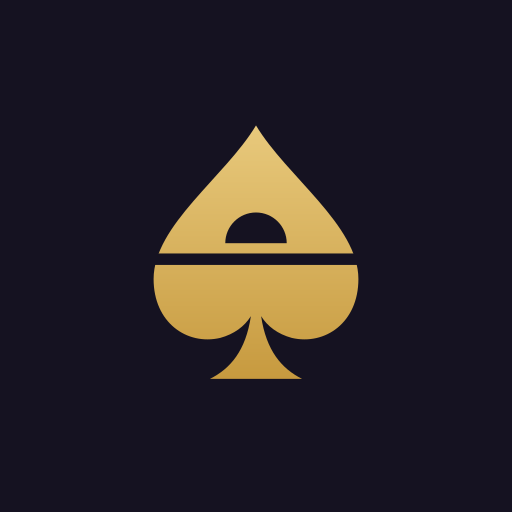
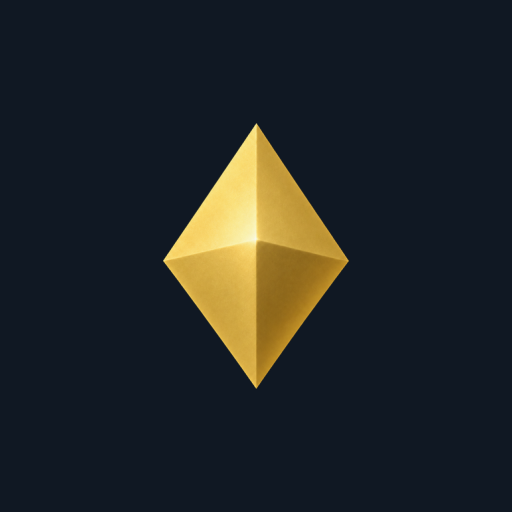
feat(brand): 앱 아이콘을 다이아로 · Play 자료(광고 아니요·조직 계정) 정리 · 다이아만 보일 때 로고 빛 체류 ≈470ms
- 아이콘: 앱 안 헤더와 같은 골드 다이아(오너 C안 원본을 알파로 잘라 높이 400 무손실 사본 scripts/brand/) + 테마 바탕 #101823.
  gen-favicons.mjs 가 favicon 32/48/64·apple-touch 180·PWA any 192/512·maskable 512(지름 80% 안전 영역 안)·monochrome 512(흰 실루엣, RGBA)·
  playstore/app-icon-512.png(정사각 풀블리드) 를 만든다. OG(nuri-logo.png)는 범위 밖이라 바이트 그대로(해시 동일 확인).
- sw.js 캐시 v2→v3: 아이콘·파비콘은 같은 주소 + 캐시 우선이라 올리지 않으면 재방문자에게 옛 스페이드가 남는다.
- 피처 그래픽: 브랜드 마크·카드 무늬를 다이아로(playstore-feature.mjs).
- 문서: 광고 포함 '아니요'(유료 노출 끔 — ads 항목 PR 배포 뒤 제출) · 조직 계정(D-U-N-S) 경로만 · 업로드 키는 저장소 밖에서.
- LogoGlint: 다이아만 보일 때(라이트 · <373) 같은 850ms 동안 −18→22 등속 — 빛이 다이아 위에 ≈470ms(전 100ms, review-239b P3-a). 수명 불변.
  e2e 3건 추가(SMIL 시계 멈춤·되감기 표본). 음성 대조: 분기 끄면 360·라이트 100ms 로 FAIL, 판정이 늘 참이면 390 다크 끝점 22 로 FAIL.

Changed region(s): [[0.2812, 0.25, 0.7188, 0.75]]

diff --git a/e2e/logo-glint.spec.ts b/e2e/logo-glint.spec.ts
@@ -113,6 +113,47 @@ test.describe('헤더 로고 글린트', () => {
     });
   }
 
+  // 다이아만 보일 때(라이트 · <373) 빛이 다이아 위에 머무는 시간 — 글자까지 가는 범위·곡선 그대로면 82~101ms 라 '반짝' 으로 읽혔다(review-239b P3-a).
+  // 재생이 시작되면 SMIL 시계를 멈추고 시작점부터 10ms 씩 되감아 띠 위치를 읽는다(타이머·프레임 속도와 무관하게 결정적).
+  // 밝은 띠가 다이아(x 9.18~29.18) 위에 있는 구간은 이동량 −10~12 다(띠 기울기·정지점에서 계산한 평균 흰빛 기준 — 검토 실측 82~101ms 를 같은 기준으로 재현한 값).
+  // 음성 대조(2026-10-09): LogoGlint 의 '다이아만' 분기를 지우면 360·라이트가 ≈100ms 로 실패, 분기 조건을 항상 참으로 바꾸면 390 다크의 끝점 94 가 실패.
+  const shine = (page: Page) => page.evaluate(() => new Promise<{ ms: number; end: number }>((resolve) => {
+    const tick = () => {
+      const svg = [...document.querySelectorAll<SVGSVGElement>('[data-testid="logo-glint"]')].pop();
+      const a = svg?.querySelector('animateTransform') as SVGAnimationElement | null;
+      const g = svg?.querySelector('linearGradient') as SVGLinearGradientElement | null;
+      let start: number | null = null;
+      try { start = a ? a.getStartTime() : null; } catch { /* 아직 시작 전 */ }
+      if (!svg || !g || start === null) { requestAnimationFrame(tick); return; }
+      svg.pauseAnimations();
+      let ms = 0, end = 0;
+      for (let t = 0; t <= 850; t += 10) {
+        svg.setCurrentTime(start + t / 1000);
+        const x = g.gradientTransform.animVal.getItem(0).matrix.e;
+        if (x >= -10 && x <= 12) ms += 10;
+        end = x;
+      }
+      resolve({ ms, end });
+    };
+    tick();
+  }));
+  for (const [w, theme, gemOnly] of [[360, 'dark', true], [390, 'light', true], [390, 'dark', false]] as const) {
+    test(`${w} ${theme} — ${gemOnly ? '다이아만: 빛이 다이아 위에 400ms 이상' : '글자까지: 범위 그대로(끝 94)'}`, async ({ page }) => {
+      await page.addInitScript((t) => { try { localStorage.setItem('nuri-theme', t); } catch { /* 차단 환경 */ } }, theme);
+      await page.setViewportSize({ width: w, height: 844 });
+      await page.goto('/');
+      await page.locator(GLINT).first().waitFor({ state: 'attached', timeout: 10_000 });
+      const r = await shine(page);
+      if (gemOnly) {
+        expect(r.ms, '다이아 위 밝은 띠 체류(ms)').toBeGreaterThanOrEqual(400);
+        expect(r.ms).toBeLessThanOrEqual(500);
+        expect(r.end, '끝에서는 다이아를 벗어나 있어야 지울 때 튀지 않는다').toBeGreaterThan(16);
+      } else {
+        expect(r.end).toBeCloseTo(94, 0);
+      }
+    });
+  }
+
   test('reduced-motion — 글린트를 그리지 않는다', async ({ page }) => {
     await page.emulateMedia({ reducedMotion: 'reduce' });
     await page.setViewportSize({ width: 390, height: 844 });

diff --git a/src/components/atoms/LogoGlint.tsx b/src/components/atoms/LogoGlint.tsx
@@ -4,7 +4,7 @@ import { CLASSIC_HOLDEM, CLASSIC_NURI, CLASSIC_VIEWBOX } from './classicLogo';
 
 // 띠(기울기 ≈ 20°)는 x ≈ tx+2.5(위)~tx+27.3(아래)를 덮는다 → tx −18 이하·94 이상이면 로고 상자(x 9.18~95.94) 밖이다.
 // 이동 범위를 여기에 맞추고 길이를 850ms 로 줄였다 — 종전 −26→96·1.3s 는 앞 0.26s·뒤 0.44s 가 상자 밖이었다(PR #239 검토).
-const FROM = -18, TO = 94, DELAY = 350, DUR = 850, KEY = 'nuri-glint';
+const FROM = -18, TO = 94, GEM_TO = 22, DELAY = 350, DUR = 850, KEY = 'nuri-glint';
 
 function Glint({ textClassName }: { textClassName: string }) {
   const id = useId().replace(/[^a-zA-Z0-9]/g, '');
@@ -24,6 +24,17 @@ function Glint({ textClassName }: { textClassName: string }) {
     // 다이아는 래스터라 path 가 없다 — 옆 <img> 를 그대로 알파 마스크로 써서 빛이 다이아→NURI→HOLDEM 으로 흐르게 한다(이미 디코드된 같은 src).
     const img = host.querySelector('img');
     if (img) gem.current?.setAttribute('href', img.currentSrc || img.src);
+    // 다이아만 보일 때(라이트 — 글자 몫을 마스크에서 뺀다 · <373 — 글자 층이 접힌다)는 같은 850ms 동안 다이아 몫만 등속으로 지난다.
+    // 글자까지 가는 범위·곡선 그대로면 빛이 다이아 위에 82~101ms(5~6프레임)만 있어 '반짝' 으로 읽혔다(review-239b P3-a).
+    // −18→22 등속: 밝은 띠가 다이아 위에 ≈450ms 있고, 끝(22)에서는 이미 다이아를 벗어나 노드를 지워도 튀지 않는다. 수명은 그대로다.
+    // 판정: 라이트이거나, 형제 글자 svg(호스트의 첫 svg)가 접혀 상자가 없을 때. 마스크 안 path 는 다크 390 에서도 상자가 없어 쓸 수 없다(실측).
+    const a = anim.current;
+    const textShown = !document.documentElement.classList.contains('light') && !!host.querySelector(':scope > svg')?.getClientRects().length;
+    if (a && !textShown) {
+      a.setAttribute('to', `${GEM_TO} 0`);
+      a.setAttribute('calcMode', 'linear');
+      a.removeAttribute('keySplines');
+    }
     // ⚠ 시작을 첫 유휴 구간 뒤로 미뤄 봤지만 CPU×4 에서 rAF 50ms 초과가 3회 모두 4회 그대로였다 — 홈 긴 작업이 유휴 뒤에도 이어진다(2026-10-08 실측). 그래서 고정 지연이다.
     // 장식은 입력에 양보한다 — 첫 입력이 오면 바로 지운다. 마스크 래스터가 프레임을 붙잡는 저사양 기기에서 눌림(:active) 프레임이 밀리지 않게(PR #239 CI press-align ①).
     let t: ReturnType<typeof setTimeout>;

diff --git a/public/sw.js b/public/sw.js
@@ -1,7 +1,7 @@
 /* NURI HOLDEM — Service Worker: 앱 셸 캐싱(빠른 재방문) + 웹 푸시 */
 /* eslint-disable no-undef */
 
-const CACHE = 'nuri-shell-v2'; // 버전 올리면 activate 에서 옛 캐시 전체 삭제(누적 정리)
+const CACHE = 'nuri-shell-v3'; // 버전 올리면 activate 에서 옛 캐시 전체 삭제(누적 정리) · v3(2026-10-09): 앱 아이콘·파비콘을 다이아로 — 같은 주소라 캐시 우선이면 옛 스페이드가 남는다
 // [DS] FONT-1: Pretendard dynamic subset 은 페이지당 woff2 수십 조각을 받는다 —
 // 60 상한이면 폰트가 앱 셸 자산을 밀어내며 캐시가 공회전하므로 상한을 함께 올린다.
 const CACHE_MAX_ENTRIES = 150; // 캐시 엔트리 상한 — 초과 시 오래된 것부터 삭제(무한 성장 방지)

diff --git a/PLAYSTORE.md b/PLAYSTORE.md
@@ -21,9 +21,15 @@
 '게임'으로 고르면 홀덤 성격상 청소년이용불가 → GRAC 직접 심의·사행성 확인 경로가 열린다.
 이 앱에는 칩을 걸고 승패를 가리는 화면이 없다 — GTO 도구는 정답이 정해진 문제·계산기, 핸드 리플레이어는 기록 재생 뷰어다.
 
-### 2. 광고는 **사실대로** 신고한다 (2026-10-08 판단: '예')
+### 2. 광고는 **사실대로** 신고한다 — **결정됨(2026-10-09): 광고 포함 '아니요'**(유료 노출 끔 — ads 항목 PR)
 
-> ⚠ 2026-09-04 판은 "광고 없음"이라고 했다. **지금은 사실이 아니다.**
+> 🟢 **2026-10-09 오너 결정: 유료 광고 노출을 하지 않는다.** 앱의 유료 노출(매장 '유료광고' 표시 등)은 **ads 항목 PR** 이 끈다.
+> 그래서 '광고 포함: **아니요**'로 낸다. 단 **그 PR 이 운영에 배포된 뒤에** 제출하고, 제출 직전 운영 화면에서 `AD`·'유료광고' 표시가 0인지 다시 본다 —
+> 켜진 채로 '아니요'를 내면 아래 10-08 판단대로 허위 신고가 된다. 도박 광고 요건(아래 🔴)도 유료 노출이 없으면 걸리지 않는다(실행표 ③ R1 해소).
+>
+> 아래는 **2026-10-08 판단(대체됨)** 의 기록이다.
+>
+> ⚠ 2026-09-04 판은 "광고 없음"이라고 했다. **2026-10-08 기준으로는 사실이 아니었다.**
 > - 커뮤니티 매장 목록의 `AD`·'유료광고' 표시 매장(`venues.is_paid_ad`, 운영 1곳 — 2026-10-08 읽기 조회)
 > - 커뮤니티 광고 칸(`community_ads` — 승격 게시글, 지금 게재 0) · 클락 화면 광고(`clock_ads`, 0) · 홈 배너 외부 링크(1)
 > Play 의 광고 기준은 서드파티 SDK 가 아니어도 "다른 콘텐츠와 구분되지 않는 네이티브 광고"·자사 배너를 광고로 본다
@@ -57,6 +63,7 @@
 | 위치기반서비스 이용약관 | ✅ **신설** https://nuriholdem.com/legal/location.html (배포 후) — 원본은 `LegalDocsModal.tsx` 의 LOCATION | `npm run legal:check` |
 | 인앱 결제 | ✅ 없음(PortOne 은 본인인증 전용) | |
 | 스토어 자산 | ✅ 폰 스크린샷 7장(1080×1920, 24비트 PNG) · 피처 그래픽 1024×500 · 아이콘 512 | `npm run playstore:assets` |
+| 앱 아이콘 | ✅ **다이아로 교체(2026-10-09 결정)** — 앱 안 헤더와 같은 골드 다이아 · 바탕 #101823. PWA any/maskable/monochrome·파비콘·apple-touch·Play 512 | `node scripts/gen-favicons.mjs` → `public/icon-*`·`favicon*` + `playstore/app-icon-512.png` · `node scripts/playstore-feature.mjs` |
 
 ## 1. 스토어 자산 생성
 
@@ -79,6 +86,7 @@ node scripts/playstore-twa.mjs --release --keystore <업로드키.keystore> --ve
 
 - 작업 폴더는 **저장소 밖**(기본: OS 임시 폴더 `nuri-twa-build`)이다. 생성된 Gradle 프로젝트·키는 커밋되지 않는다(`.gitignore` 에 `*.keystore`·`*.jks`·`playstore/twa/*`).
 - ⚠ 이 PC 는 `NoDefaultCurrentDirectoryInExePath=1` 이라 맨손 `bubblewrap build` 가 `gradlew.bat` 을 못 찾는다 — 스크립트가 작업 폴더를 PATH 앞에 넣어 우회한다.
+- **업로드 키는 저장소 밖에서 만든다** — 저장소 폴더(OneDrive 동기화 포함) 안에서 `keytool` 을 실행하지 않는다(공개 저장소라 실수 한 번이 곧 유출).
 - 업로드 키 만들기(오너, 한 번): `keytool -genkeypair -v -keystore nuri-upload.keystore -alias upload -keyalg RSA -keysize 2048 -validity 10000`
   (keytool 위치: `~/.bubblewrap/jdk-extract/jdk-17.0.20.1+1/bin/keytool.exe`). **키 파일과 비밀번호를 잃으면 업데이트를 못 올린다** — 별도 백업 2곳.
 - 버전: 올릴 때마다 `--version-code` 를 1씩 올린다. 웹만 바뀌면 AAB 재업로드는 필요 없다(색·아이콘·바로가기·패키지 설정을 바꿀 때만).
@@ -104,12 +112,12 @@ Play Console → 앱 → **테스트 및 출시 → 앱 무결성 → 앱 서명
 ## 4. Play Console 입력 (오너)
 
 순서·화면 위치·정확한 입력값은 실행표 ②. 요약:
-1. 개발자 계정(조직 권장 — 개인 계정은 2023-11-13 이후 생성이면 **12명 × 14일 비공개 테스트** 필수,
-   [공식](https://support.google.com/googleplay/android-developer/answer/14151465))
+1. 개발자 계정 — **결정됨(2026-10-09): 조직 계정(D-U-N-S) 경로만.** 개인 계정은 쓰지 않는다
+   (개인 계정은 2023-11-13 이후 생성이면 **12명 × 14일 비공개 테스트** 필수, [공식](https://support.google.com/googleplay/android-developer/answer/14151465))
 2. 앱 만들기 — 이름 `store-listing.md` ①, 기본 언어 한국어, **앱**, 무료
 3. AAB 업로드(내부 테스트 → 비공개 → 프로덕션)
 4. 스토어 등록정보 — `store-listing.md`
-5. 앱 콘텐츠: 개인정보처리방침 · 앱 액세스(`app-access.md`) · 광고(예) · 콘텐츠 등급(`content-rating.md`) ·
+5. 앱 콘텐츠: 개인정보처리방침 · 앱 액세스(`app-access.md`) · 광고(**아니요** — ads 항목 PR 배포 뒤, ⛔2) · 콘텐츠 등급(`content-rating.md`) ·
    타겟층(만 18세 이상만) · 데이터 보안(`data-safety.md`) · 계정 삭제 URL
 6. 결제를 나중에 열면(부스트·유료 마크 등) 콘텐츠 등급의 '디지털 구매'와 데이터 보안을 **다시 제출**한다.
 

diff --git a/playstore/store-listing.md b/playstore/store-listing.md
@@ -92,7 +92,9 @@
 | 사업자 정보 | `src/components/features/BusinessFooter.tsx` 와 같은 값 |
 
 **쓰지 않은 것과 이유**
-- "앱 내 광고가 없습니다" — **사실과 다르다.** 커뮤니티 매장 목록에 `AD`·'유료광고' 표시 매장(운영 1곳, 2026-10-08 조회)과 커뮤니티 광고 칸·클락 광고 기능이 있다. 광고 신고는 `PLAYSTORE.md` ⛔2 참고.
+- "앱 내 광고가 없습니다" — 2026-10-08 기준 **사실과 달랐다**(커뮤니티 매장 목록에 `AD`·'유료광고' 표시 매장 운영 1곳 · 커뮤니티 광고 칸·클락 광고 기능).
+  2026-10-09 오너 결정으로 유료 노출을 끈다(ads 항목 PR) — Play 양식의 '광고 포함'은 **아니요**(`PLAYSTORE.md` ⛔2, 그 PR 배포 뒤 제출).
+  등록정보 본문에는 여전히 광고 유무를 홍보 문구로 쓰지 않는다(기능이 서버 스위치로 다시 켜질 수 있다).
 - '주간 리그'·'머니인' — 2026-09-05 삭제된 기능.
 - '불법 환전' — 서약 문서의 정식 제목이지만 §28 금지어라 '사행성 행위 금지 서약'으로 부른다.
 - 이벤트 카드(출석 → 참여권 → 카드 열기 → 매장 이용권) — 앱에는 있으나 등록정보에 쓰면 '확률형 보상'으로 먼저 읽힌다. 앱 안 공식 규칙·확률 공개로 Play 요건을 맞춘다(`playstore/gambling-policy.md` 2026-10-08 절).
@@ -111,4 +113,5 @@
 | 6 | 06-detail.png | 대회 상세 | 참가비·GTD 가 크게 보여 **맨 뒤**에 둔다 |
 | (제외) | 07-live.png | 라이브 | 진행 중 대회가 0이면 빈 화면 — 대회가 있는 시간에 다시 찍을 때만 |
 
-피처 그래픽: `node scripts/playstore-feature.mjs` → `playstore/feature-graphic-1024x500.png`. 앱 아이콘: `public/icon-512.png`(512×512, 32비트 PNG, 17KB).
+피처 그래픽: `node scripts/playstore-feature.mjs` → `playstore/feature-graphic-1024x500.png`. 앱 아이콘: `node scripts/gen-favicons.mjs` → `playstore/app-icon-512.png`(512×512, 32비트 PNG, 정사각 풀블리드 — Play 가 모서리를 깎는다. 2026-10-09 다이아로 교체).
+`public/icon-512.png` 는 모서리가 투명한 웹(PWA)용이라 Play 에 올리지 않는다.

diff --git a/playstore/data-safety.md b/playstore/data-safety.md
@@ -14,7 +14,7 @@
 | 본인인증 | `identity_voucher_enabled = on`(2026-10-08 조회) — 실명·휴대폰·생년월일·성별·통신사·CI 해시 수집 중 | 개인 정보 > 이름(실명)·전화번호·기타 정보: **수집 예 · 선택**(예약·이용권 쓸 때만) |
 | 계정 삭제 웹 URL | **있음** — https://nuriholdem.com/legal/delete-account.html (로그인 없이 열림) | 삭제 요청 URL 칸에 입력 |
 | 위치 약관 공개 주소 | **신설** — https://nuriholdem.com/legal/location.html | 양식 칸은 없음(개인정보처리방침에서 링크) |
-| 광고 | 서드파티 광고 SDK 는 여전히 0 — 매장 유료 노출은 자사 서버 데이터라 '광고 목적 공유'가 아니다 | 공유 목적에 '광고 또는 마케팅' 체크하지 않음 |
+| 광고 | 서드파티 광고 SDK 는 여전히 0 — 매장 유료 노출은 자사 서버 데이터라 '광고 목적 공유'가 아니다. **2026-10-09 결정: 유료 노출 끔(ads 항목 PR)** → 앱 콘텐츠 '광고 포함: 아니요'(`PLAYSTORE.md` ⛔2, 그 PR 배포 뒤 제출) | 공유 목적에 '광고 또는 마케팅' 체크하지 않음 |
 | Sentry | 2026-09-30 확인 운영 DSN 없음(코드는 `VITE_SENTRY_DSN` 있을 때만 로드) — 오너가 Vercel 환경변수로 재확인 | 없으면 진단 '공유' 아니요 |
 
 ### 그대로 입력할 표 (2026-10-08)
